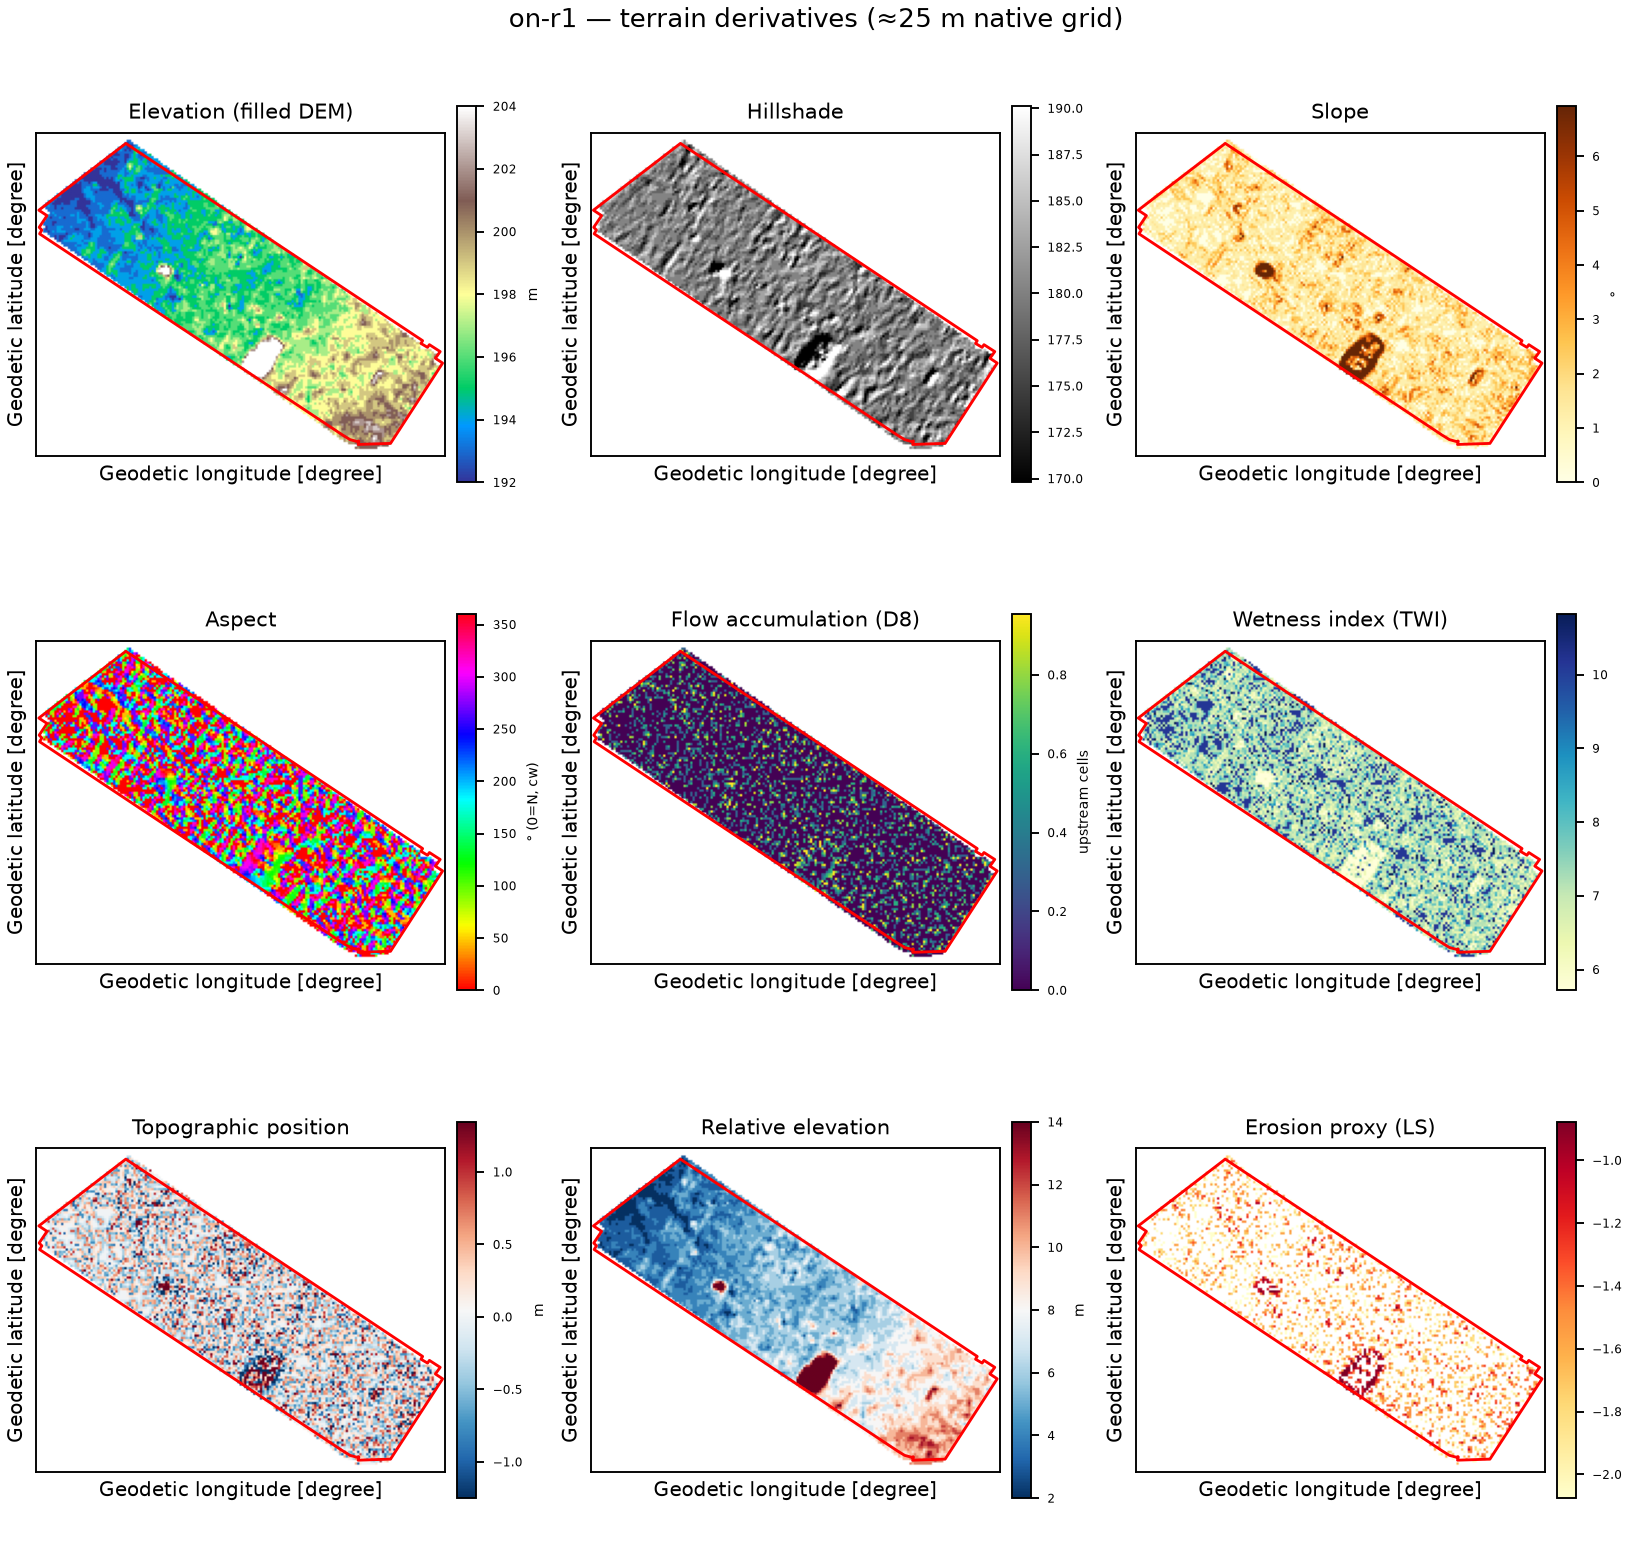
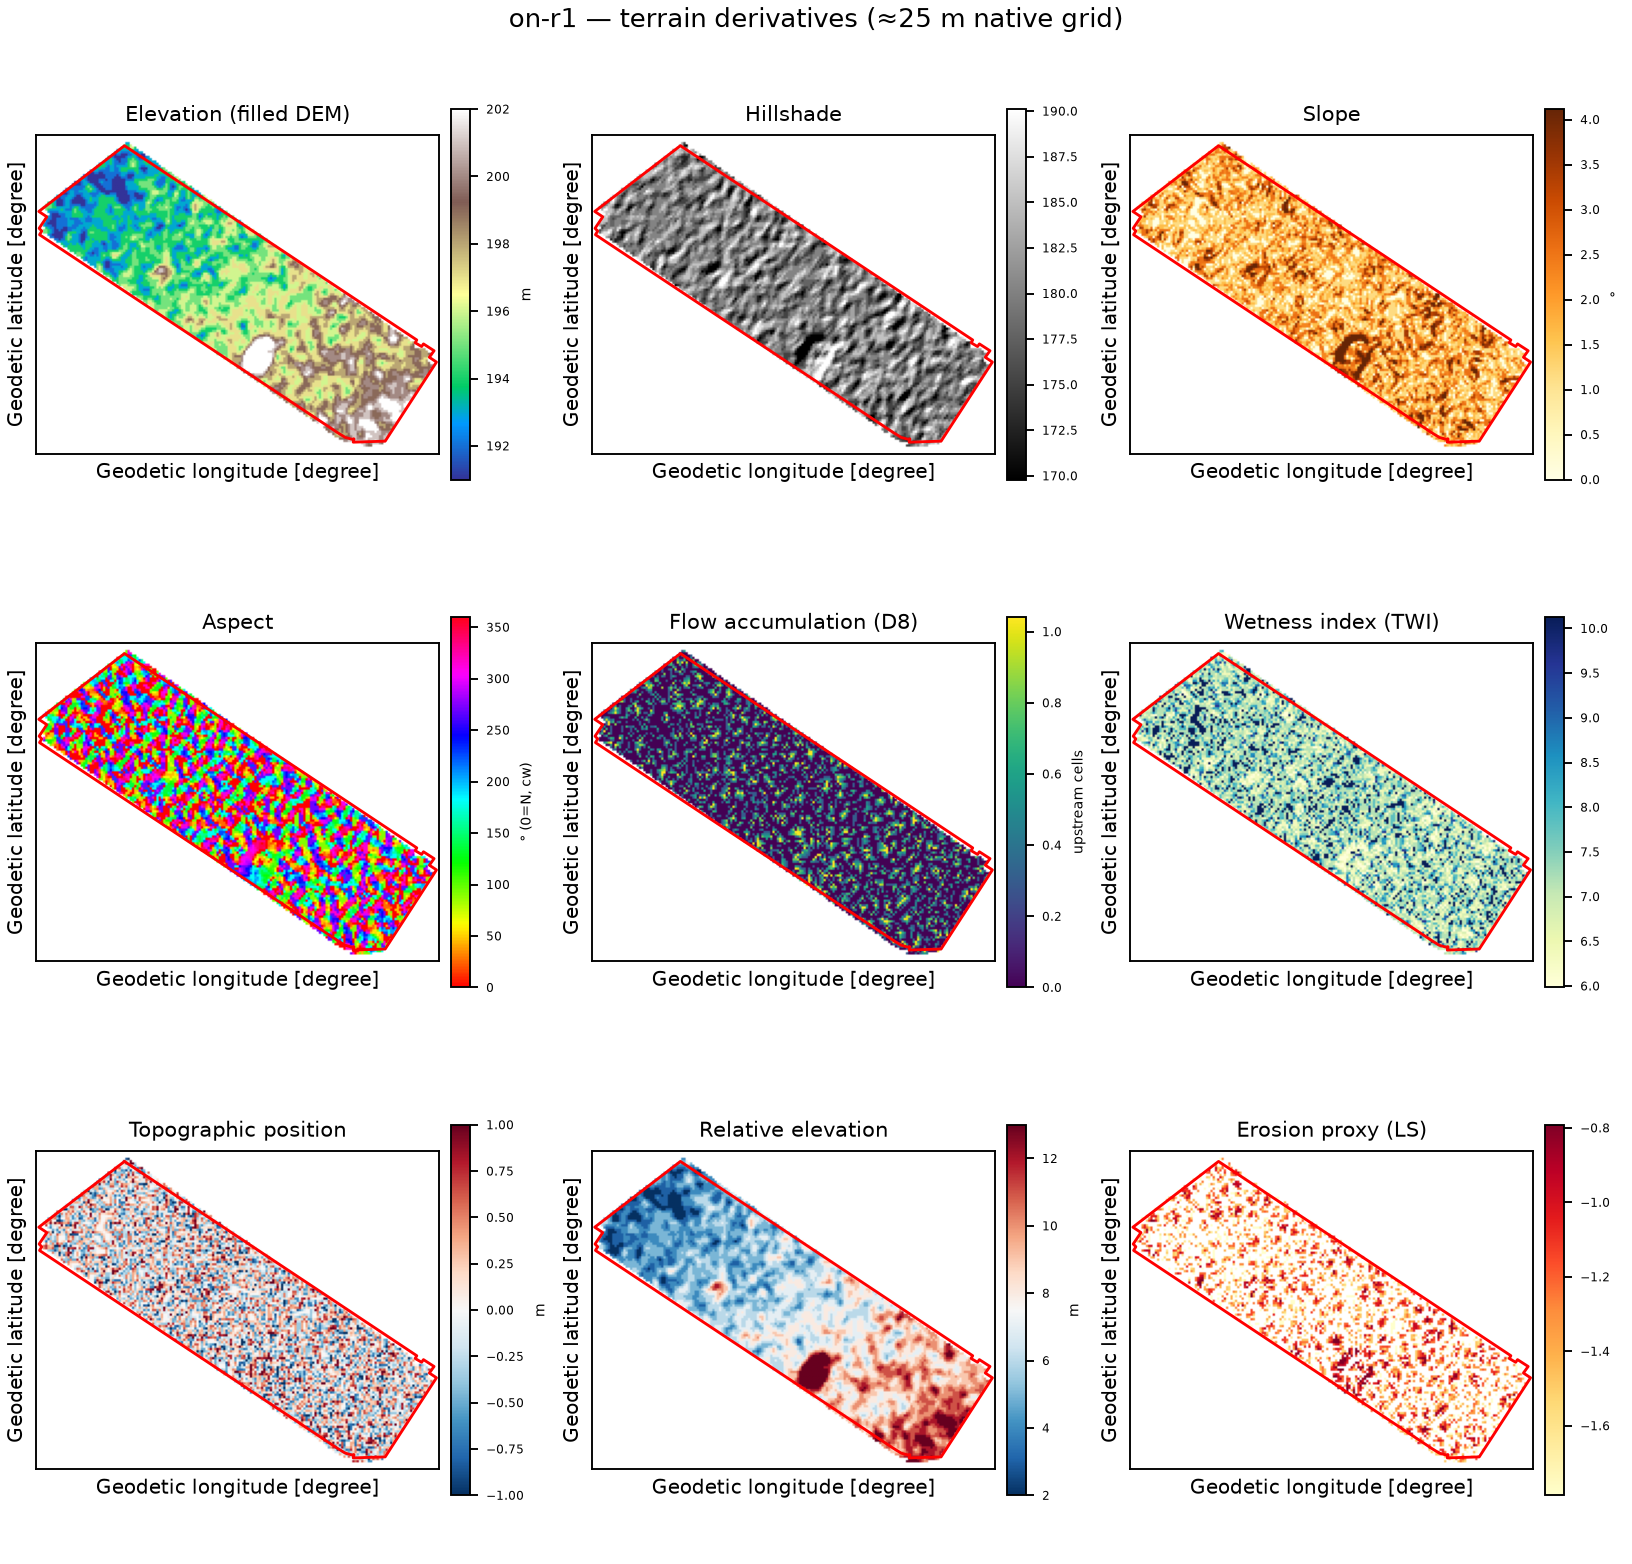
restrictive-layer demo + WorldCereal per-year series in gallery; rotation canonicalized
- horizon renderer: rotation constrained to (-90,+90] so north never flips;
  signed +NN label; bottom depth tick removed (xtick collision); restriction
  bands get staggered '<kind> <top>-<bot> cm' labels + continue-below arrow
- new gallery row: southern-IL demo field over Fishhook densic material
  (74-203 cm) + Ava fragipan (71-163 cm) — restriction column is the loudest
  panel; SDA polygons fetched via 1-deg tile sweep (statewide box fails,
  0.4-deg returned 0 — mupolygon lives at -91/40, Shawnee Hills)
- gallery: WorldCereal per-year crop-class series for Brazil (2021-24) and
  Ontario (2021-23), season token tc-s2, honest coverage note about the
  reference-cropland-mask gaps and the missing sugarcane class
- on-r1 terrain re-rendered from bare-earth NASADEM (AW3D30 revert)
- references/field-map-frame.md: rotate->re-pin SW contract, arrow math

diff --git a/my-farm-advisor/data-pipeline/src/scripts/reporting/generate_soil_texture_triangles.py b/my-farm-advisor/data-pipeline/src/scripts/reporting/generate_soil_texture_triangles.py
@@ -465,20 +465,22 @@ def render_horizon_table(csv_path: Path, label: str, out: Path, source_note: str
         (_x1, _y1), (_x2, _y2) = max(_edges, key=lambda e: (e[1][0]-e[0][0])**2 + (e[1][1]-e[0][1])**2)
         _theta = _math.degrees(_math.atan2(_y2 - _y1, _x2 - _x1))
         _rot = (_theta - 90.0) if _long_axis == "vertical" else _theta
+        # canonical tilt in (-90, 90]: a longer rotation would apply the same
+        # long-edge alignment but flip north below the horizon
+        _rot = ((_rot + 90.0) % 180.0) - 90.0
         if abs(_rot) > 0.5:
             _gu = _gu.assign(geometry=_gu.geometry.map(lambda g: _aff.rotate(g, -_rot, origin=(0, 0))))
             _x0, _y0, _, _ = _gu.total_bounds
             _gu = _gu.assign(geometry=_gu.geometry.translate(xoff=-_x0, yoff=-_y0))
-        _rot %= 360.0
-        if _rot >= 359.75:
+        if abs(_rot) <= 0.05:
             _rot = 0.0
         _gu.plot(ax=ax_m, color=_gu["c"].fillna("#d1d5db"),
                  linewidth=0.4, edgecolor="#4b5563")
         _gu.dissolve().boundary.plot(ax=ax_m, color="#111827", lw=1.1)
-        _axlab = (f"m E from SW corner (UTM {_zone})" if _rot < 0.5 else
-                  f"field-local m (rotated {_rot:.0f}° from E, UTM {_zone})")
+        _axlab = (f"m E from SW corner (UTM {_zone})" if _rot == 0.0 else
+                  f"field-local m (rotated {_rot:+.0f}\u00b0 from E, UTM {_zone})")
         ax_m.set_xlabel(_axlab, fontsize=6.8)
-        ax_m.set_ylabel("m N" if _rot < 0.5 else "m (rotated frame)", fontsize=6.8)
+        ax_m.set_ylabel("m N" if _rot == 0.0 else "m (rotated frame)", fontsize=6.8)
         ax_m.tick_params(labelsize=6.4)
         ax_m.grid(alpha=0.18, lw=0.4)
         # north arrow, top-right, boxed for contrast; the geometry was rotated
@@ -589,6 +591,7 @@ def render_horizon_table(csv_path: Path, label: str, out: Path, source_note: str
         ax.fill_betweenx(bins, y, y.min(), alpha=0.25, color=cmap(0.6))
         ax.set_ylim(100, 0); ax.set_xlim(y.min() - (y.max()-y.min())*0.15 - 1e-9,
                                          y.max() + (y.max()-y.min())*0.15 + 1e-9)
+        ax.set_yticks([0, 20, 40, 60, 80])  # 100 label collides with xticks
         ax.text(0.5, 0.985, name, transform=ax.transAxes, ha="center", va="top",
                 fontsize=7.6, weight="bold", color="#111827")
         ax.tick_params(labelsize=6.6)
@@ -611,6 +614,7 @@ def render_horizon_table(csv_path: Path, label: str, out: Path, source_note: str
             axx.text(frac, depth, txt, fontsize=6.2, color=cc, ha="center", va="center",
                      path_effects=[pe.withStroke(linewidth=1.6, foreground="white")])
         axx.set_ylim(100, 0); axx.set_xlim(0, 100)
+        axx.set_yticks([0, 20, 40, 60, 80])
         from matplotlib.ticker import MaxNLocator as _M
         axx.xaxis.set_major_locator(_M(3))
         axx.text(0.5, 0.985, "texture", transform=axx.transAxes, ha="center", va="top",
@@ -619,21 +623,30 @@ def render_horizon_table(csv_path: Path, label: str, out: Path, source_note: str
     if has_restr or known_restr:
         axr = fig.add_subplot(gs2[n_cols2 - 1])
         axr.set_ylim(100, 0); axr.set_xlim(0, 1)
-        axr.set_yticks([0, 20, 40, 60, 80, 100]); axr.tick_params(labelsize=6.6)
+        axr.set_yticks([0, 20, 40, 60, 80]); axr.tick_params(labelsize=6.6)
         axr.set_xticks([])
         axr.text(0.5, 0.985, "restrictions", transform=axr.transAxes, ha="center",
                  va="top", fontsize=7.6, weight="bold", color="#111827")
         if has_restr:
-            for kind, top, bot in restricts:
-                bot = min(bot, 100.0)
+            for _i, (kind, top, bot) in enumerate(restricts):
+                bot_disp = min(bot, 100.0)
                 if top > 100:
                     continue
-                axr.add_patch(plt.Rectangle((0.08, top), 0.84, max(bot - top, 4),
+                axr.add_patch(plt.Rectangle((0.08, top), 0.84, max(bot_disp - top, 4),
                                             facecolor=_restr_color(kind), alpha=0.28,
                                             edgecolor=_restr_color(kind), hatch="///", lw=0.8))
-                axr.text(0.5, max(top, (top + bot) / 2 - 3), kind, rotation=90, fontsize=5.6,
-                         color=_restr_color(kind), ha="center", va="center", weight="bold",
+                # label at the band's own extent with its FULL depth window, and
+                # stagger two overlapping bands left/right so names never merge
+                _xl = {0: 0.30, 1: 0.70}.get(_i % 2, 0.5)
+                _lab = f"{kind} {top:.0f}–{bot:.0f} cm"
+                axr.text(_xl, max(top, (top + bot_disp) / 2 - 3), _lab, rotation=90,
+                         fontsize=5.4, color=_restr_color(kind), ha="center",
+                         va="center", weight="bold",
                          path_effects=[pe.withStroke(linewidth=1.4, foreground="white")])
+                if bot > 100:  # band continues below the chart
+                    axr.annotate("", xy=(0.5, 99.2), xytext=(0.5, 94.5),
+                                 arrowprops=dict(arrowstyle="-|>", lw=1.0,
+                                                 color=_restr_color(kind)))
             axr.text(0.5, 0.015, "hatched = restrictive layer",
                      transform=axr.transAxes, ha="center", va="bottom", fontsize=5.8)
         else:

diff --git a/README.md b/README.md
@@ -102,10 +102,10 @@ automatically for **every field** in `run_farm_pipeline.py` (`--all-fields` mode
 survey triangle + horizon table + weighted map where polygons exist, the grid
 triangle for raster providers):
 
-| US — SSURGO horizons | Canada — ON-DSS horizons |
-| --- | --- |
-| ![Iowa horizon table](my-farm-advisor/data-pipeline/examples/soil-maps/output/ia-r1_horizon_table.png) | ![Ontario horizon table](my-farm-advisor/data-pipeline/examples/soil-maps/output/on-r1_horizon_table.png) |
-| Left: the field itself — map units colored by **dominant component** on a **field-local UTM frame** (metres from the SW corner, boxed north arrow; see `references/field-map-frame.md`), legend lists every series with its % of field area (sums to 100). Middle: horizon table whose **component chips reuse the map colors** — row ↔ polygon at a glance; numeric cells plain. Right: same table **interpolated to continuous depth** from 0 cm (comppct-weighted, 5 cm bins) + a **100 % sand·silt·clay texture stack** down the profile + a restrictions column (SSURGO `corestrictions`) | Same schema, same renderer: Ontario series (Brookston 82.8 %, Perth 13.2 %, Normandale 3.9 %) — UTM 17 frame, chips matched, profiles from the surface down |
+| US — SSURGO horizons | Canada — ON-DSS horizons | Restrictive subsurface — southern Illinois |
+| --- | --- | --- |
+| ![Iowa horizon table](my-farm-advisor/data-pipeline/examples/soil-maps/output/ia-r1_horizon_table.png) | ![Ontario horizon table](my-farm-advisor/data-pipeline/examples/soil-maps/output/on-r1_horizon_table.png) | ![Illinois fragipan demo](my-farm-advisor/data-pipeline/examples/soil-maps/output/il-r1_horizon_table.png) |
+| Left: the field itself — map units colored by **dominant component** on a **field-local UTM frame** (metres from the SW corner, boxed north arrow; see `references/field-map-frame.md`), legend lists every series with its % of field area (sums to 100). Middle: horizon table whose **component chips reuse the map colors** — row ↔ polygon at a glance; numeric cells plain. Right: same table **interpolated to continuous depth** from 0 cm (comppct-weighted, 5 cm bins) + a **100 % sand·silt·clay texture stack** down the profile + a restrictions column (SSURGO `corestrictions`) | Same schema, same renderer: Ontario series (Brookston 82.8 %, Perth 13.2 %, Normandale 3.9 %) — the geometry **auto-rotated 56°** so the field's long edge fills the portrait panel; the north arrow counter-rotates and the axis states the angle | A demo field deliberately placed over Fishhook's **densic material at 74–203 cm** and Ava's classic **Fragipan at 71–163 cm**: restrictive layers strike across every affected depth profile as red bands, labeled with kind + depth window, and get their own hatched panel — the "don't-till-this-deep" signal is the loudest thing on the page |
 
 ### Terrain derivatives — ready the moment the DEM lands
 
@@ -171,6 +171,20 @@ Sentinel-2 (no accounts, no keys), cross-checked against the USDA CDL.
 | --- | --- | --- |
 | ![Iowa CDL comparator](my-farm-advisor/data-pipeline/examples/worldcereal/output/wc_verify_ia_soy_cdl.png) | ![Narrabri tc-s2](my-farm-advisor/data-pipeline/examples/worldcereal/output/wc_verify_au_tc2.png) | ![Narrabri tc-s1](my-farm-advisor/data-pipeline/examples/worldcereal/output/wc_verify_au_tc1.png) |
 | Six panels: imagery, NDVI, cropland mask, WorldCereal crop type **and USDA CDL 2023** on identical extents — in-field shares printed, verdict **AGREE** (CDL 96.7% soybeans vs WorldCereal 98.9%) | Correctly sees the fallow dry-season window (La Niña 2023) | Honest caveat: un-fine-tuned model mislabels cotton as oilseed — regional accuracy stated, not oversold |
+
+The same models run **per year** and stack into a rotation-strip figure via
+`render_year_series()` — this is how rotation history is sourced for countries
+with no national per-year layer (Brazil, most of the world):
+
+| Brazil (São Paulo) — 2021→2024 | Ontario, Canada — 2021→2023 |
+| --- | --- |
+| ![BR year series](my-farm-advisor/data-pipeline/examples/worldcereal/output/br-r1_crop_class_year_series.png) | ![CA year series](my-farm-advisor/data-pipeline/examples/worldcereal/output/on-r1_crop_class_year_series.png) |
+| Sugarcane years honestly read *no crop* (the crop-type layer has no cane class); maize and grass/fodder years pop in color — the rotation signal is legible even where the class vocabulary falls short | CAMEO-classified soy/maize/wheat rotation recovered year-by-year, keyless, with no Canadian login — alongside the AAFC ACI layer, which remains the authoritative Canadian source |
+
+Coverage note (stated, not hidden): the crop-type layer labels only pixels inside
+WorldCereal's reference cropland mask for that year, so partial-year coverage on
+small fields renders as interior gaps — per-year shares are computed over labeled
+pixels only.
 
 ### Breeding operations — designs, fieldbooks, and selection
 
